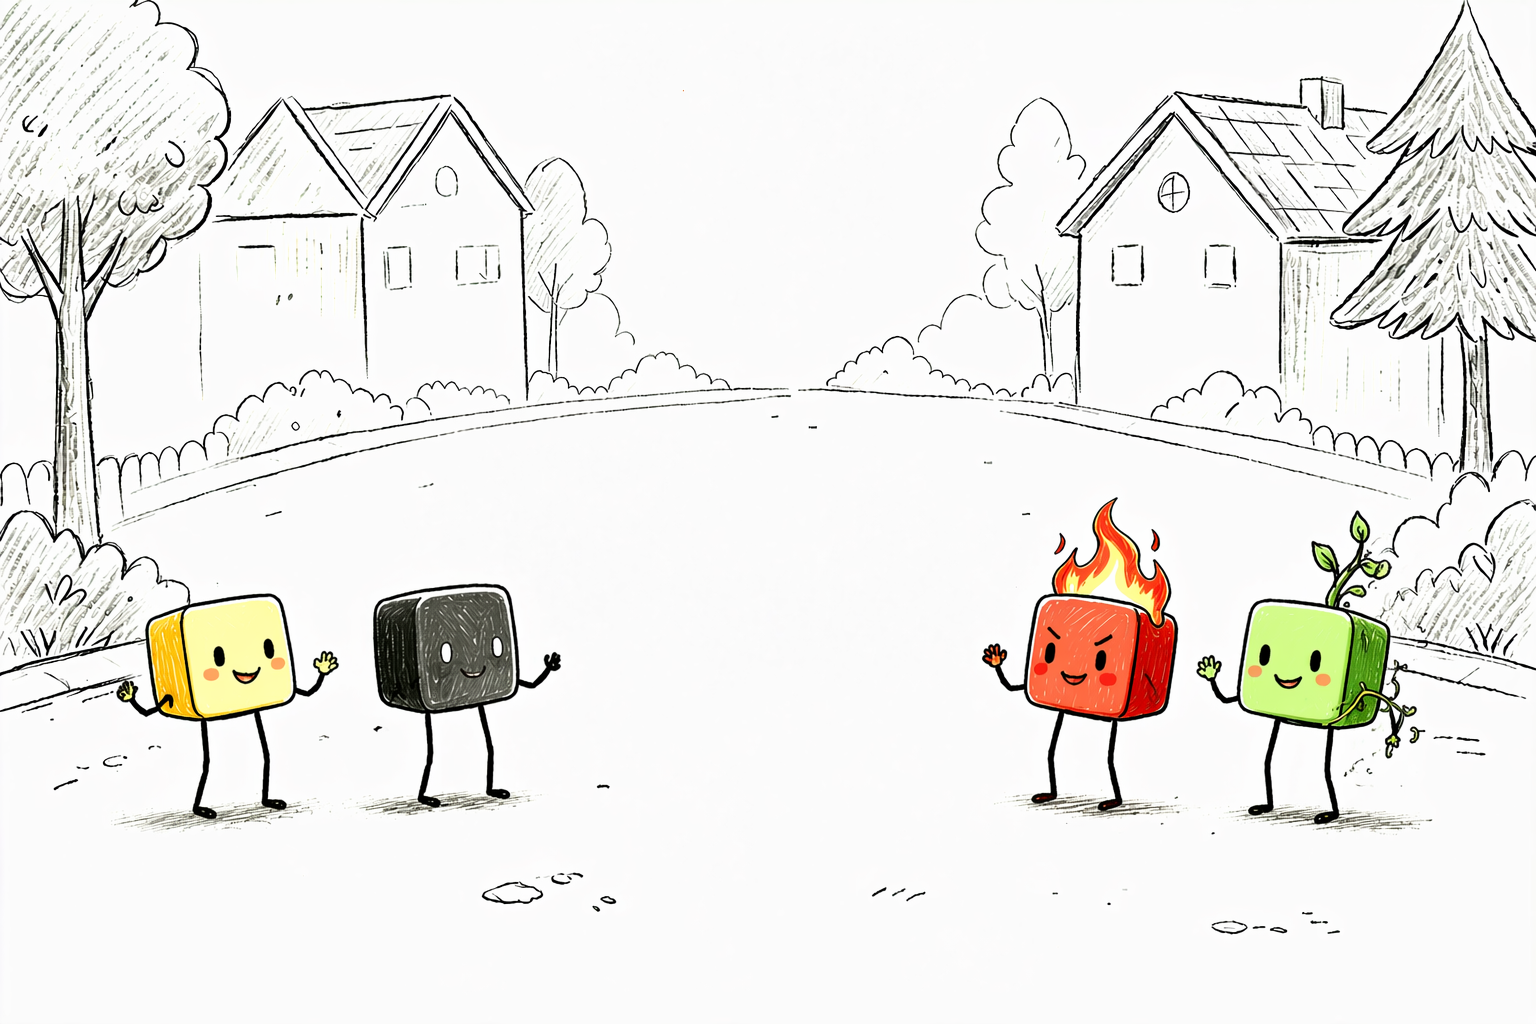
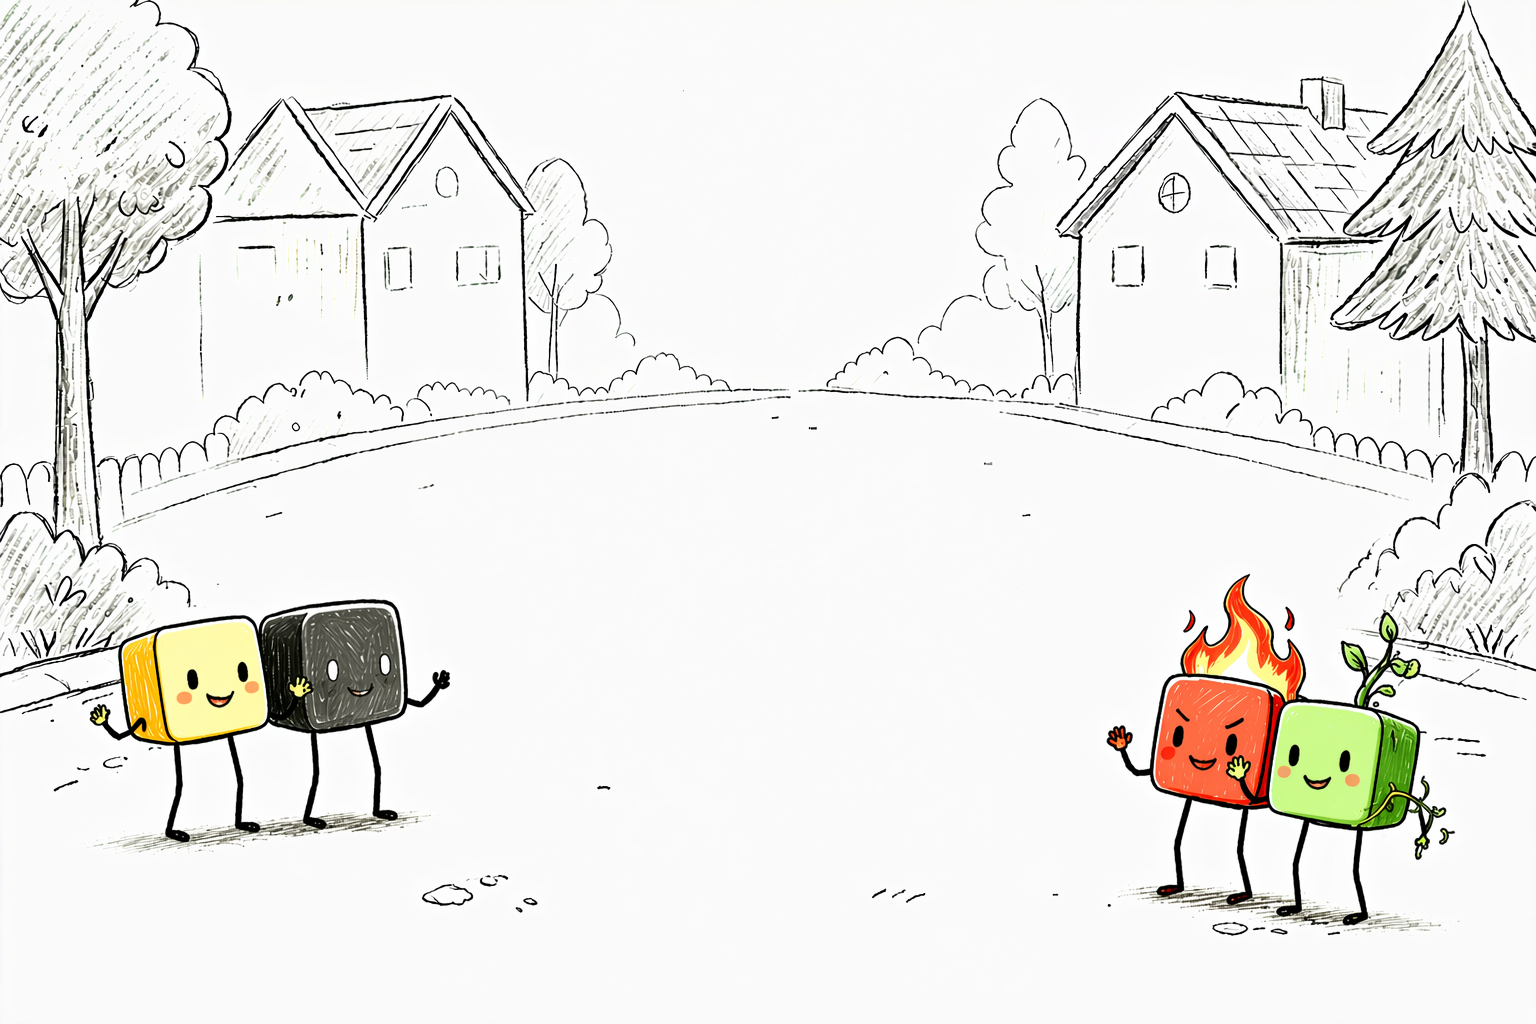
Add files via upload

diff --git a/index.html b/index.html
@@ -14,12 +14,12 @@
   #wrap { display: flex; flex-direction: column; align-items: center; justify-content: center; height: 100vh; gap: 12px; }
   #main { display: flex; align-items: flex-start; gap: 14px; }
 
-  /* 左侧材料库(素描手绘风:纸片底 + 墨黑描边 + 楷体) */
+  /* 左侧材料库(素描手绘风:纸片底 + 柔墨描边 + 楷体) */
   #panel {
     width: 220px; flex-shrink: 0; max-height: calc(100vh - 32px);
     background: url('tipback.png') center/cover no-repeat, #f4efe1;
-    border: 2.5px solid #2a2a2a; box-shadow: 5px 5px 0 #2a2a2a;
-    padding: 16px; border-radius: 14px; color: #2a2a2a;
+    border: 1.5px solid #6b6354; box-shadow: 2px 2px 0 rgba(107,99,84,.45);
+    padding: 16px; border-radius: 14px; color: #3a352c;
     display: flex; flex-direction: column; gap: 8px; overflow-y: auto;
     font-family: "STKaiti","KaiTi","楷体",cursive;
   }
@@ -27,14 +27,14 @@
   #panel .tip { font-size: 12px; opacity: .7; margin-bottom: 6px; line-height: 1.5; }
   .brick-btn {
     display: flex; align-items: center; gap: 8px; padding: 8px 10px;
-    border-radius: 10px; cursor: pointer; border: 2px solid #2a2a2a;
+    border-radius: 10px; cursor: pointer; border: 1.5px solid #8a8170;
     background: rgba(255,253,245,.7); transition: .12s; position: relative;
-    box-shadow: 2px 2px 0 #2a2a2a;
+    box-shadow: 1px 1px 0 rgba(107,99,84,.35);
   }
-  .brick-btn:hover { transform: translate(-1px,-1px); box-shadow: 3px 3px 0 #2a2a2a; background: #fffdf5; }
-  .brick-btn.active { border-color: #2a2a2a; background: #ffe9a8; box-shadow: 3px 3px 0 #2a2a2a; }
+  .brick-btn:hover { transform: translate(-1px,-1px); box-shadow: 2px 2px 0 rgba(107,99,84,.4); background: #fffdf5; }
+  .brick-btn.active { border-color: #6b6354; background: #ffe9a8; box-shadow: 2px 2px 0 rgba(107,99,84,.4); }
   .brick-btn.empty { opacity: .4; cursor: not-allowed; box-shadow: none; transform: none; }
-  .swatch { width: 24px; height: 24px; border-radius: 5px; flex-shrink: 0; border: 2px solid #2a2a2a; }
+  .swatch { width: 24px; height: 24px; border-radius: 5px; flex-shrink: 0; border: 1.5px solid #8a8170; }
   .brick-btn .info { font-size: 12px; line-height: 1.3; flex: 1; }
   .brick-btn .info b { font-size: 14px; }
   .brick-btn .info span { opacity: .7; }
@@ -46,22 +46,23 @@
     display: flex; gap: 6px; align-items: center; justify-content: center; flex-wrap: wrap; width: 100%;
   }
   .stat {
-    background: rgba(255,253,245,.92); color: #2a2a2a;
-    border: 2.5px solid #2a2a2a; box-shadow: 2px 2px 0 #2a2a2a;
+    background: rgba(255,253,245,.92); color: #3a352c;
+    border: 1.5px solid #6b6354; box-shadow: 1px 1px 0 rgba(107,99,84,.4);
     padding: 0 14px; height: 42px; border-radius: 12px; font-size: 14px; white-space: nowrap;
     flex: 0 0 auto; display: flex; align-items: center; box-sizing: border-box;
     font-family: "STKaiti","KaiTi","楷体",cursive; font-weight: 700;
   }
   .stat b { font-size: 18px; margin: 0 6px; }
   #progwrap { flex: 0 1 280px; min-width: 200px; display: flex; align-items: center; gap: 8px; }
-  #progbar { flex: 1; height: 12px; border-radius: 6px; background: rgba(42,42,42,.12); border: 2px solid #2a2a2a; overflow: hidden; }
+  #progbar { flex: 1; height: 12px; border-radius: 6px; background: rgba(42,42,42,.1); border: 1.5px solid #8a8170; overflow: hidden; }
   #progbar > i { display: block; height: 100%; width: 0%; background: linear-gradient(90deg,#6dd86d,#5dd6e8); transition: width .2s; }
   #order { flex: 0 0 auto; width: 184px; overflow: hidden; text-overflow: ellipsis; }
-  #timer { padding: 0 22px; }
+  #timer { padding: 0 22px; font-weight: 800; }
+  #timer b { font-size: 24px; font-weight: 900; }
   #timer.low b { color: #e8503a; }
   #reset, #pause { cursor: pointer; font-family: "STKaiti","KaiTi","楷体",cursive; transition: .12s; }
-  #reset:hover, #pause:hover { transform: translate(-1px,-1px); box-shadow: 3px 3px 0 #2a2a2a; background: #fffdf5; }
-  #reset:active, #pause:active { transform: translate(1px,1px); box-shadow: 1px 1px 0 #2a2a2a; }
+  #reset:hover, #pause:hover { transform: translate(-1px,-1px); box-shadow: 2px 2px 0 rgba(107,99,84,.45); background: #fffdf5; }
+  #reset:active, #pause:active { transform: translate(1px,1px); box-shadow: 1px 1px 0 rgba(107,99,84,.4); }
 
   #pausemask {
     position: fixed; inset: 0; background: rgba(0,0,0,.18); display: none;
@@ -87,25 +88,25 @@
   #lvbar {
     margin-top: 12px;
     display: flex; gap: 8px;
-    background: rgba(255,253,245,.92); border: 2.5px solid #2a2a2a; box-shadow: 3px 3px 0 #2a2a2a;
+    background: rgba(255,253,245,.92); border: 1.5px solid #6b6354; box-shadow: 2px 2px 0 rgba(107,99,84,.4);
     padding: 8px 12px; border-radius: 16px;
     max-width: 100%; overflow-x: auto;
   }
   .lvchip {
     width: 54px; flex-shrink: 0; padding: 6px 4px; border-radius: 10px; cursor: pointer;
-    border: 2px solid #2a2a2a; background: #fffdf5; color: #2a2a2a;
+    border: 1.5px solid #8a8170; background: #fffdf5; color: #3a352c;
     font-family: "STKaiti","KaiTi","楷体",cursive; text-align: center; transition: .12s;
-    box-shadow: 2px 2px 0 #2a2a2a;
+    box-shadow: 1px 1px 0 rgba(107,99,84,.35);
   }
-  .lvchip:hover:not(.locked) { transform: translate(-1px,-1px); box-shadow: 3px 3px 0 #2a2a2a; }
+  .lvchip:hover:not(.locked) { transform: translate(-1px,-1px); box-shadow: 2px 2px 0 rgba(107,99,84,.4); }
   .lvchip.locked { opacity: .4; cursor: not-allowed; box-shadow: none; }
-  .lvchip.current { background: #ffe9a8; box-shadow: 3px 3px 0 #2a2a2a; }
+  .lvchip.current { border-color: #6b6354; background: #ffe9a8; box-shadow: 2px 2px 0 rgba(107,99,84,.4); }
   .lvchip .ico { font-size: 20px; display: block; line-height: 1.2; }
   .lvchip .n { font-size: 10px; opacity: .8; }
-  canvas { border-radius: 10px; background: rgba(255,255,255,.06); cursor: pointer; }
+  canvas { border-radius: 10px; background: transparent; cursor: pointer; }
   #hint {
     margin-top: 12px;
-    background: rgba(255,253,245,.92); color: #2a2a2a; border: 2.5px solid #2a2a2a; box-shadow: 3px 3px 0 #2a2a2a;
+    background: rgba(255,253,245,.92); color: #3a352c; border: 1.5px solid #6b6354; box-shadow: 2px 2px 0 rgba(107,99,84,.4);
     padding: 8px 18px; border-radius: 20px; font-size: 14px;
     font-family: "STKaiti","KaiTi","楷体",cursive; font-weight: 700;
   }
@@ -121,16 +122,16 @@
   /* 结束弹窗:素描手绘风(与关卡说明弹窗统一) */
   #overlay .ov-card {
     background: url('tipback.png') center/cover no-repeat;
-    border: 2.5px solid #2a2a2a; border-radius: 16px;
+    border: 1.5px solid #6b6354; border-radius: 16px;
     padding: 30px 40px 34px; width: min(86vw, 460px);
-    text-align: center; color: #2a2a2a;
-    box-shadow: 6px 6px 0 #2a2a2a;
+    text-align: center; color: #3a352c;
+    box-shadow: 2px 2px 0 rgba(107,99,84,.45);
     display: flex; flex-direction: column; align-items: center; gap: 14px;
     animation: introPop .4s cubic-bezier(.2,1.3,.4,1) both;
   }
   #overlay h1 {
     font-family: "STKaiti","KaiTi","楷体",cursive;
-    font-size: 40px; font-weight: 800; letter-spacing: 2px; color: #2a2a2a;
+    font-size: 40px; font-weight: 800; letter-spacing: 2px; color: #3a352c;
     text-shadow: 1.5px 1.5px 0 #cdbfa0;
   }
   #overlay p {
@@ -139,14 +140,14 @@
   }
   #overlay button {
     font-family: "STKaiti","KaiTi","楷体",cursive;
-    font-size: 20px; font-weight: 700; color: #2a2a2a;
-    background: #fffdf5; border: 2.5px solid #2a2a2a; border-radius: 14px;
+    font-size: 20px; font-weight: 700; color: #3a352c;
+    background: #fffdf5; border: 1.5px solid #6b6354; border-radius: 14px;
     padding: 10px 40px; cursor: pointer; margin-top: 4px;
-    box-shadow: 3px 3px 0 #2a2a2a;
+    box-shadow: 2px 2px 0 rgba(107,99,84,.45);
     transition: transform .12s, box-shadow .12s;
   }
-  #overlay button:hover  { transform: translate(-1px,-1px); box-shadow: 5px 5px 0 #2a2a2a; }
-  #overlay button:active { transform: translate(2px,2px);   box-shadow: 1px 1px 0 #2a2a2a; }
+  #overlay button:hover  { transform: translate(-1px,-1px); box-shadow: 3px 3px 0 rgba(107,99,84,.5); }
+  #overlay button:active { transform: translate(1px,1px);   box-shadow: 1px 1px 0 rgba(107,99,84,.4); }
 
   /* ---------- 关卡开场说明弹窗(素描手绘风) ---------- */
   #intro {
@@ -155,15 +156,15 @@
   }
   #intro .intro-card {
     background: url('tipback.png') center/cover no-repeat;
-    border: 2.5px solid #2a2a2a; border-radius: 16px;
+    border: 1.5px solid #6b6354; border-radius: 16px;
     padding: 30px 34px 34px; width: min(86vw, 460px);
-    text-align: center; color: #2a2a2a;
-    box-shadow: 6px 6px 0 #2a2a2a;
+    text-align: center; color: #3a352c;
+    box-shadow: 2px 2px 0 rgba(107,99,84,.45);
     animation: introPop .4s cubic-bezier(.2,1.3,.4,1) both;
   }
   #intro-title {
     font-family: "STKaiti","KaiTi","楷体",cursive;
-    font-size: 32px; font-weight: 800; letter-spacing: 2px; color: #2a2a2a;
+    font-size: 32px; font-weight: 800; letter-spacing: 2px; color: #3a352c;
     text-shadow: 1.5px 1.5px 0 #cdbfa0; margin-bottom: 16px;
   }
   #intro-desc {
@@ -172,14 +173,14 @@
   }
   #intro-btn {
     font-family: "STKaiti","KaiTi","楷体",cursive;
-    font-size: 20px; font-weight: 700; color: #2a2a2a;
-    background: #fffdf5; border: 2.5px solid #2a2a2a; border-radius: 14px;
+    font-size: 20px; font-weight: 700; color: #3a352c;
+    background: #fffdf5; border: 1.5px solid #6b6354; border-radius: 14px;
     padding: 10px 40px; cursor: pointer;
-    box-shadow: 3px 3px 0 #2a2a2a;
+    box-shadow: 2px 2px 0 rgba(107,99,84,.45);
     transition: transform .12s, box-shadow .12s;
   }
-  #intro-btn:hover  { transform: translate(-1px,-1px); box-shadow: 5px 5px 0 #2a2a2a; }
-  #intro-btn:active { transform: translate(2px,2px);   box-shadow: 1px 1px 0 #2a2a2a; }
+  #intro-btn:hover  { transform: translate(-1px,-1px); box-shadow: 3px 3px 0 rgba(107,99,84,.5); }
+  #intro-btn:active { transform: translate(1px,1px);   box-shadow: 1px 1px 0 rgba(107,99,84,.4); }
   @keyframes introPop { from{transform:scale(.8);opacity:0} to{transform:scale(1);opacity:1} }
   /* ---------- 开屏(素描手绘风) ---------- */
   #splash {
@@ -227,8 +228,7 @@
 <body>
 <div id="wrap">
   <div id="topbar">
-    <div class="stat" id="order">订单:--</div>
-    <div class="stat" id="level">第 1 关</div>
+    <div class="stat" id="order">第 1/7 关</div>
     <div class="stat" id="timer">⏱ <b>60</b>s</div>
     <button class="stat" id="pause">⏸ 暂停</button>
     <button class="stat" id="reset">↻ 重置本关</button>
@@ -509,8 +509,8 @@ function loadLevel(idx) {
   lastSpread = perfNow();
   burnedOnce = false;
   spreadCounter = 0;
-  document.getElementById('order').textContent = '订单:' + lv.name;
-  document.getElementById('level').textContent = `第 ${idx+1} 关`;
+  const introTitle = (LEVEL_INTROS[idx] && LEVEL_INTROS[idx].title) || lv.name;
+  document.getElementById('order').textContent = `第 ${idx+1}/${LEVELS.length} 关 - ${introTitle}`;
   document.getElementById('overlay').style.display = 'none';
   document.getElementById('pausemask').style.display = 'none';
   const pb = document.getElementById('pause'); if (pb) pb.textContent = '⏸ 暂停';
@@ -926,16 +926,12 @@ function checkEnd() {
 // ---------- 渲染 ----------
 function draw() {
   ctx.clearRect(0,0,cv.width,cv.height);
-  // 网格线
-  ctx.strokeStyle = 'rgba(42,42,42,.35)'; ctx.lineWidth = 1;
-  for (let r=0;r<=ROWS;r++){ ctx.beginPath(); ctx.moveTo(0,r*CELL); ctx.lineTo(cv.width,r*CELL); ctx.stroke(); }
-  for (let c=0;c<=COLS;c++){ ctx.beginPath(); ctx.moveTo(c*CELL,0); ctx.lineTo(c*CELL,cv.height); ctx.stroke(); }
 
   for (let r=0;r<ROWS;r++) for (let c=0;c<COLS;c++) {
     const x = c*CELL, y = r*CELL, t = target[r][c], f = grid[r][c];
-    // 非可填充格子(图纸里没有目标颜色):禁用,画成暗色遮罩,不可交互
+    // 非可填充格子(图纸里没有目标颜色):禁用,画成淡色遮罩,不可交互
     if (!inBounds(r, c)) {
-      ctx.fillStyle = 'rgba(0,0,0,.32)';
+      ctx.fillStyle = 'rgba(0,0,0,.08)';
       ctx.fillRect(x, y, CELL, CELL);
       continue;
     }
@@ -963,6 +959,10 @@ function draw() {
       }
     }
   }
+  // 网格线(画在格子之上;坐标 +0.5 对齐像素,保证细线清晰锐利)
+  ctx.strokeStyle = 'rgba(0,0,0,.6)'; ctx.lineWidth = 1;
+  for (let r=0;r<=ROWS;r++){ const y=Math.round(r*CELL)+0.5; ctx.beginPath(); ctx.moveTo(0,y); ctx.lineTo(cv.width,y); ctx.stroke(); }
+  for (let c=0;c<=COLS;c++){ const x=Math.round(c*CELL)+0.5; ctx.beginPath(); ctx.moveTo(x,0); ctx.lineTo(x,cv.height); ctx.stroke(); }
   // 鼠标悬停高亮(画布之外不高亮)
   if (mouse.c>=0 && mouse.r>=0 && mouse.c<COLS && mouse.r<ROWS && phase==='play' && inBounds(mouse.r, mouse.c)) {
     ctx.strokeStyle = 'rgba(255,255,255,.8)'; ctx.lineWidth = 2;
@@ -1142,6 +1142,15 @@ loadProgress();
 document.getElementById('reset').onclick = () => loadLevel(levelIdx);
 document.getElementById('pause').onclick = togglePause;
 document.getElementById('pausemask').onclick = togglePause;
+// 空格键暂停 / 继续(仅在游戏进行或暂停时生效,避免开场弹窗/倒计时期间误触)
+window.addEventListener('keydown', e => {
+  if (e.code === 'Space' || e.key === ' ') {
+    if (phase === 'play' || phase === 'paused') {
+      e.preventDefault();
+      togglePause();
+    }
+  }
+});
 document.getElementById('intro-btn').onclick = () => beginLevel(levelIdx);
 
 levelIdx = 0;